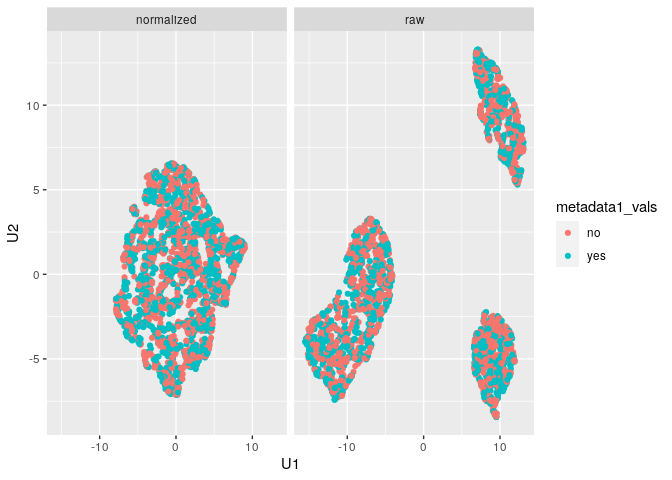
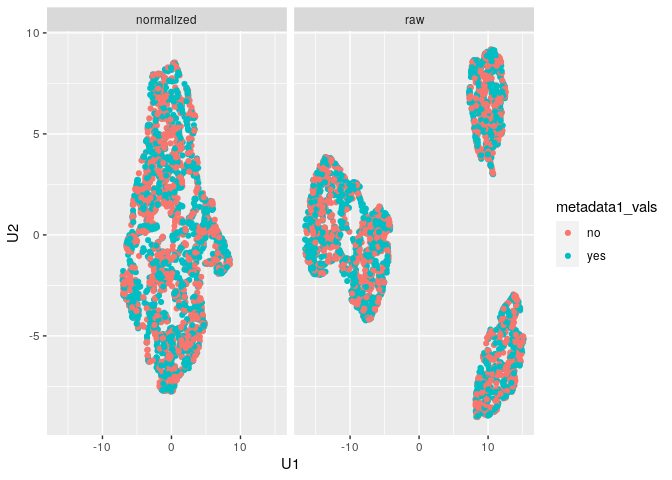
fix NOTEs on CRAN

diff --git a/README.md b/README.md
@@ -7,11 +7,11 @@
 
 [![](https://www.r-pkg.org/badges/version/mxnorm)](https://cran.r-project.org/package=mxnorm)
 [![](http://cranlogs.r-pkg.org/badges/grand-total/mxnorm?color=green)](https://cran.r-project.org/package=mxnorm)
-[![status](https://joss.theoj.org/papers/c18a1df622016c6ea8ed9e67dda73d07/status.svg)](https://joss.theoj.org/papers/c18a1df622016c6ea8ed9e67dda73d07)
+[![status](https://joss.theoj.org/papers/c18a1df622016c6ea8ed9e67dda73d07/status.svg)](https://joss.theoj.org/papers/10.21105/joss.04180)
 
 [![R-CMD-check](https://github.com/ColemanRHarris/mxnorm/workflows/R-CMD-check/badge.svg)](https://github.com/ColemanRHarris/mxnorm/actions)
 [![Codecov test
-coverage](https://codecov.io/gh/ColemanRHarris/mxnorm/branch/main/graph/badge.svg)](https://codecov.io/gh/ColemanRHarris/mxnorm?branch=main)
+coverage](https://codecov.io/gh/ColemanRHarris/mxnorm/branch/main/graph/badge.svg)](https://app.codecov.io/gh/ColemanRHarris/mxnorm?branch=main)
 <!-- badges: end -->
 
 A package designed to handle multiplexed imaging data in R, implementing
@@ -49,7 +49,7 @@ This package imports `lme4` (and its dependency `nloptr`) which use
     - port install cmake         (MacOS; inside a terminal with MacPorts)
 
 This package also uses the `reticulate` package to interface with the
-`scikit-image` Python package. Depending on the user’s environment,
+`scikit-learn` Python package. Depending on the user’s environment,
 sometimes Python/`conda`/`Miniconda` is not detected, producing an
 option like the following:
 
@@ -242,15 +242,15 @@ summary(mx_var)
 #>  normalized              34.565                  24.111            0
 #>         raw              32.490                  22.525            0
 #> 
-#> Threshold discordance scores:
+#> Otsu discordance scores:
 #>       table mean_discordance sd_discordance
 #>  normalized            0.054          0.071
 #>         raw            0.373          0.141
 #> 
 #> Clustering consistency (UMAP):
 #>       table adj_rand_index cohens_kappa
-#>  normalized          0.055        0.013
-#>         raw          0.561        0.108
+#>  normalized          0.055       -0.077
+#>         raw          0.585       -0.141
 #> 
 #> Variance proportions (slide-level):
 #>       table  mean    sd
